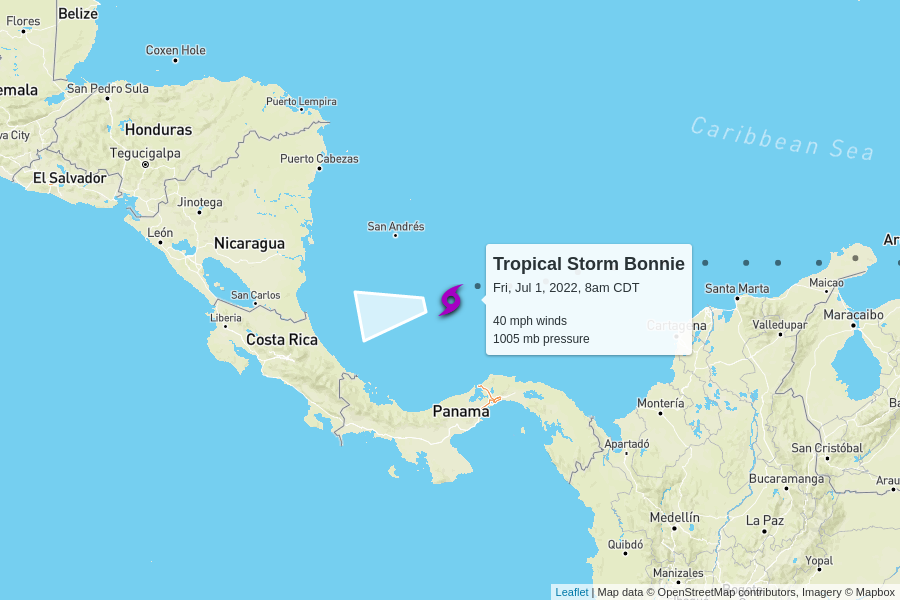
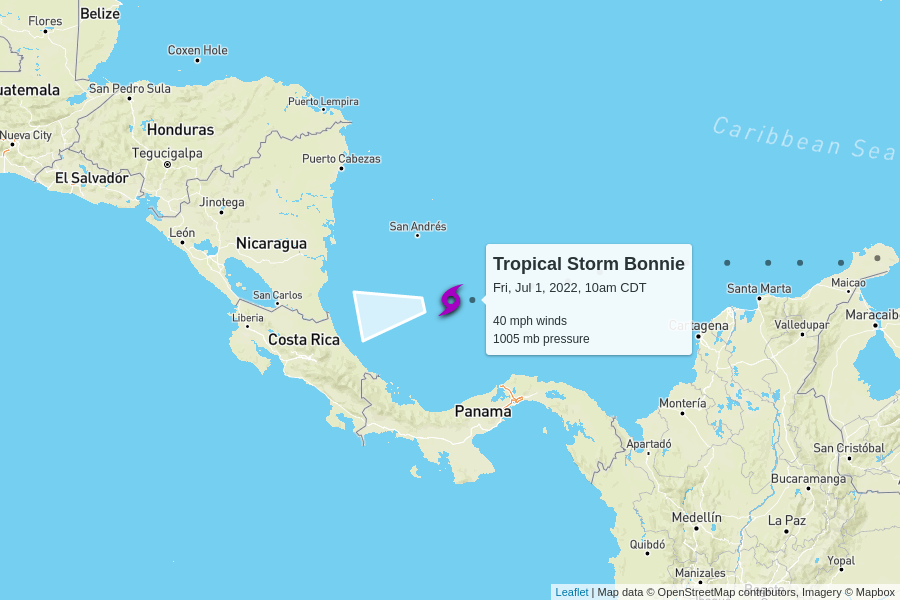
automatic update

diff --git a/docs/index.html b/docs/index.html
@@ -100,7 +100,7 @@
         <td colspan="6" class="storm category-0" >
           <h2>
             Tropical Storm Bonnie
-            <p class="updated">last updated <span data-time>2022-07-01T13:15:00.000Z</span></p>
+            <p class="updated">last updated <span data-time>2022-07-01T15:00:00.000Z</span></p>
           </h2>
         </td>
       </tr>
